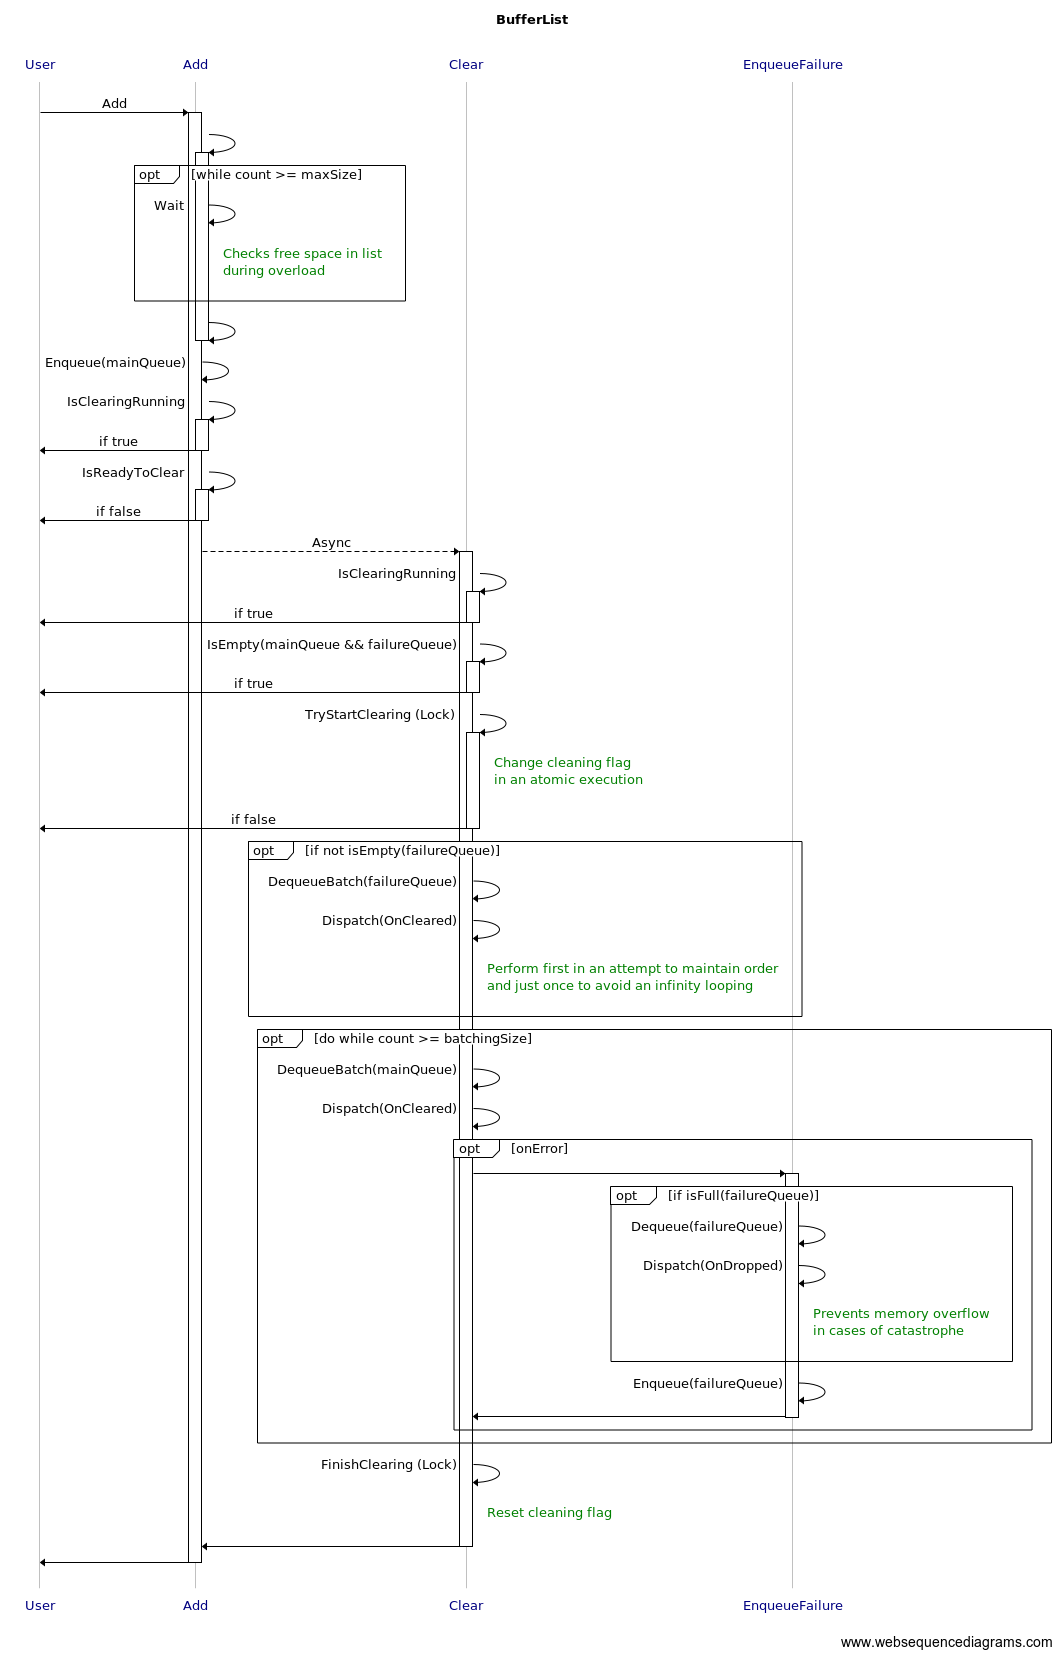
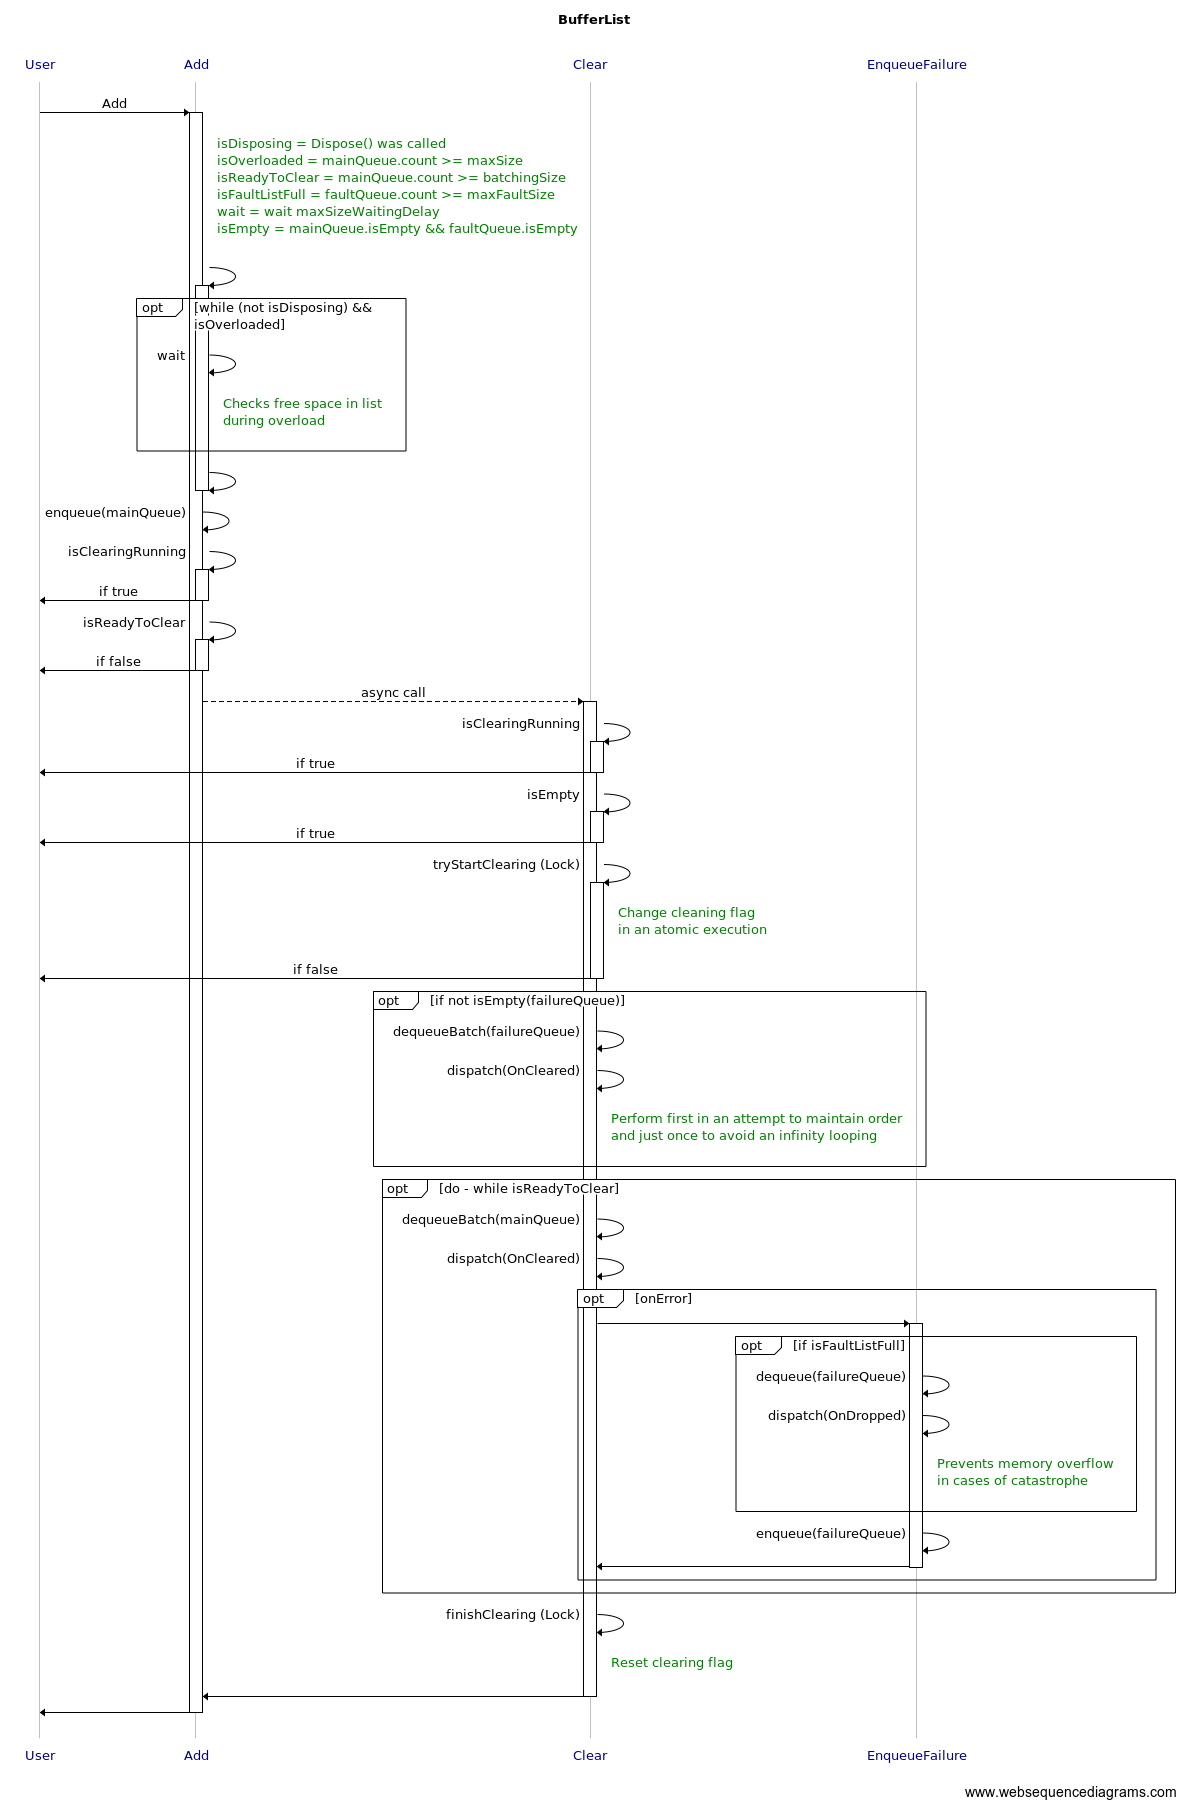
:memo: Fix docs and compatibilize names

diff --git a/src/Core/BufferList.cs b/src/Core/BufferList.cs
@@ -72,7 +72,7 @@ namespace TRBufferList.Core
         /// <summary>
         /// Checks if buffer size is greater than max size.
         /// </summary>
-        public bool IsOverworked => _mainQueue.Count >= _options.MaxSize;
+        public bool IsOverloaded => _mainQueue.Count >= _options.MaxSize;
 
         /// <summary>
         /// Get items that failed to publish.
@@ -114,7 +114,7 @@ namespace TRBufferList.Core
 
         private void HandleWaiting()
         {
-            while (!_isDisposing && IsOverworked)
+            while (!_isDisposing && IsOverloaded)
             {
                 _autoResetEvent.Wait(_options.MaxSizeWaitingDelay);
             }
